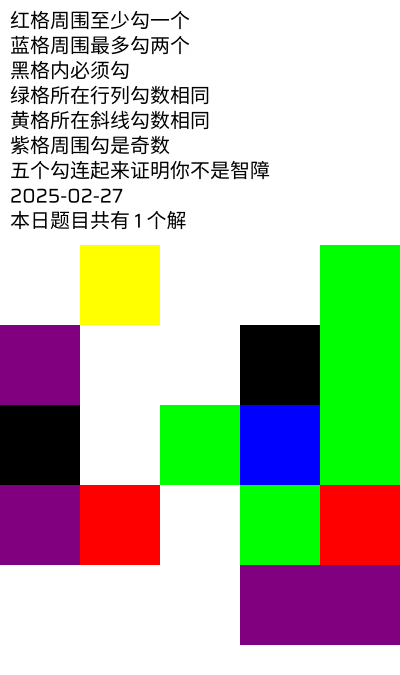
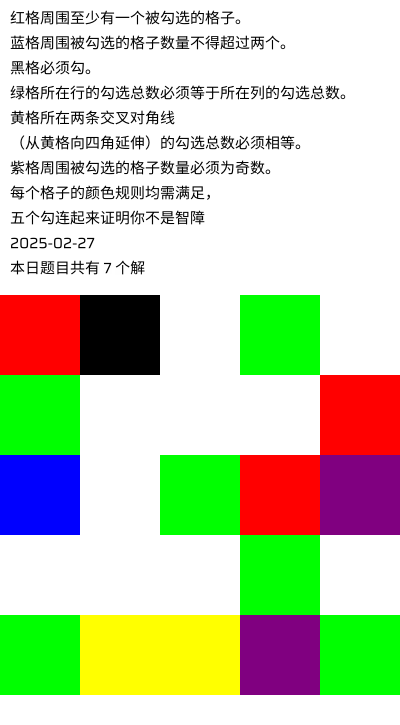
还是不知道写什么，咕咕咕

diff --git a/src/main.rs b/src/main.rs
@@ -97,7 +97,7 @@ impl Grid {
         let y = y as i32;
 
         // 向dir1方向延伸
-        let (mut cx, mut cy) = (x, y);
+        let (mut cx, mut cy) = (x as i32, y as i32);
         loop {
             if cx < 0 || cy < 0 || cx >= 5 || cy >= 5 { break; }
             cells.push((cx as usize, cy as usize));
@@ -106,7 +106,7 @@ impl Grid {
         }
 
         // 向dir2方向延伸（跳过中心点）
-        let (mut cx, mut cy) = (x + dir2.0, y + dir2.1);
+        let (mut cx, mut cy) = (x as i32, y as i32);
         loop {
             if cx < 0 || cy < 0 || cx >= 5 || cy >= 5 { break; }
             cells.push((cx as usize, cy as usize));
@@ -281,13 +281,13 @@ fn save_grid_image(grid: &Grid, path: &str, show_checks: bool, date: &str, solut
     let cell_size: u32 = 80;
     let line_height: u32 = 25;
     let rules = vec![
-        "红格周围至少勾一个",
-        "蓝格周围最多勾两个",
-        "黑格内必须勾",
-        "绿格所在行列勾数相同",
-        "黄格所在斜线勾数相同",
-        "紫格周围勾是奇数",
-        "五个勾连起来证明你不是智障",
+        "红格周围至少有一个被勾选的格子。",
+        "蓝格周围被勾选的格子数量不得超过两个。",
+        "黑格必须勾。",
+        "绿格所在行的勾选总数必须等于所在列的勾选总数。",
+        "黄格所在两条交叉对角线\n（从黄格向四角延伸）的勾选总数必须相等。",
+        "紫格周围被勾选的格子数量必须为奇数。",
+        "每个格子的颜色规则均需满足，\n五个勾连起来证明你不是智障",
         &format!("{}", date),
         &format!("本日题目共有 {} 个解", solutions_count)
     ].join("\n");
@@ -301,7 +301,7 @@ fn save_grid_image(grid: &Grid, path: &str, show_checks: bool, date: &str, solut
 
     let font_data: &[u8] = include_bytes!("../fonts/font.ttf");
     let font = Font::try_from_bytes(font_data).unwrap();
-    let scale = Scale::uniform(20.0);
+    let scale = Scale::uniform(15.0);
 
     let text_color = Rgb([0u8, 0, 0]);
     let mut y_pos = 10;
@@ -384,13 +384,20 @@ fn move_to_date_folder(date: &str) {
 
     for entry in fs::read_dir("data").unwrap() {
         let entry = entry.unwrap();
+        let path = entry.path();
+
+        // 仅处理文件，跳过目录
+        if !path.is_file() {
+            continue;
+        }
+
         let file_name = entry.file_name();
         let file_name_str = file_name.to_str().unwrap();
 
-        // 只移动非保留文件且非当前日期的文件
+        // 仅移动非保留文件（且不是当前日期的文件夹）
         if !keep_files.contains(&file_name_str) && file_name_str != date {
             let new_path = format!("{}/{}", date_folder, file_name_str);
-            fs::rename(entry.path(), new_path).unwrap();
+            fs::rename(&path, new_path).unwrap();
         }
     }
 }
